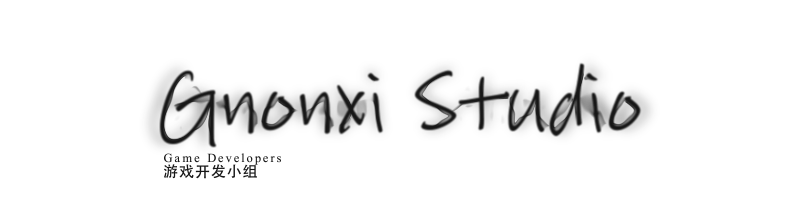
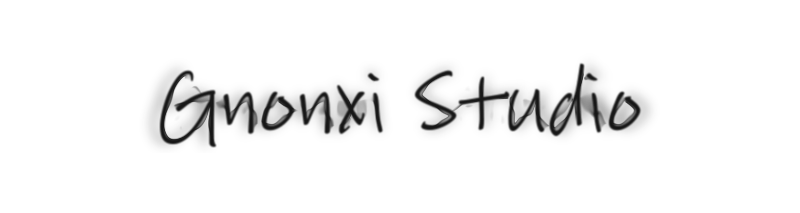
完成个人项目描述页面，完成惜枫醉的个人项目VOSH和PureToolProject

Changed region(s): [[0.1875, 0.7042, 0.375, 0.8451]]

diff --git a/index.html b/index.html
@@ -3,7 +3,7 @@
   <head>
     <!--meta charset='utf-8'-->
     <meta http-equiv="X-UA-Compatible" content="chrome=1">
-    <link href='https://fonts.googleapis.com/css?family=Chivo:900' rel='stylesheet' type='text/css'>
+    <!--link href='https://fonts.googleapis.com/css?family=Chivo:900' rel='stylesheet' type='text/css'-->
     <link rel="stylesheet" type="text/css" href="stylesheets/stylesheet.css" media="screen" />
     <link rel="stylesheet" type="text/css" href="stylesheets/pygment_trac.css" media="screen" />
     <link rel="stylesheet" type="text/css" href="stylesheets/print.css" media="print" />
@@ -19,20 +19,40 @@
       <div class="inner">
 
         <header>
-	  <img src="images/title.png"  alt="gnonxi studio"/>
-	  
+		<img src="images/title_red.png"  alt="gnonxi studio"/>
         </header>
-        <hr>
-		<section id="main_content">
-		<h6>欢迎来到Gnonxi Studio主页</h6>
-		<p><h6>Gnonxi Studio 是一个三人视频游戏开发小组。这里的组员均为业余水平(蛤蛤)，开发游戏是我们的一项爱好。<br/>
-		我们正在进行第一款游戏的策划制作当中，敬请期待。<br/>
-		(似乎大家都比较忙，所以制作周期会非常长,不过一定能产出,质量第一。)<br/>
-		如果您有兴趣或者意见，您可以发送邮件至<a href="mailto:gnonxi@163.com">这里</a></h6> </p>
-        </section>
-
+			<hr/>
+			<section id="main_content">
+				<h2>欢迎来到Gnonxi Studio主页</h2>
+				<p>
+					<h6>Gnonxi Studio 是一个多人开发小组。我们有自己的特长，也会共同的做一些东西，开发游戏和一些小玩意儿是我们的爱好。如果您有兴趣或者意见，您可以发送邮件至<a href="mailto:xifengzui@yeah.net">这里</a>。</h6> 
+				</p>
+			</section>
+			<hr/>
+		<section>
+		<h4>项目日志</h4>
+		<p>
+			<h6>Games<br/>
+			</h6>
+		</p>
+		<p>
+			<h6>Windows & WindowsPhone:<br/>
+			<a href="PureToolsProject.html">Pure Tools Project</a>
+			</h6>
+		</p>
+		<p>
+			<h6>Android:<br/>
+			</h6>
+		</p>
+		<p>
+			<h6>Internet Of Things: <br/>
+			<a href="VOSH.html">Voice Smart Home-VOSH</a> 
+			</h6>
+		</p>
+		
+		</section>
         <footer>
-		  <p>Page powered by <a href="https://github.com/">GitHub</a>  2014.05.08</p>.
+		  <p>Powered by <a href="https://github.com/">GitHub</a> Gnonxi Studio All Rights Reserved.</p>.
         </footer>
 
         

diff --git a/PureToolsProject.html b/PureToolsProject.html
@@ -1,0 +1,58 @@
+<html>
+  <head>
+    <!--meta charset='utf-8'-->
+    <meta http-equiv="X-UA-Compatible" content="chrome=1">
+    <link rel="stylesheet" type="text/css" href="stylesheets/stylesheet.css" media="screen" />
+    <link rel="stylesheet" type="text/css" href="stylesheets/pygment_trac.css" media="screen" />
+    <link rel="stylesheet" type="text/css" href="stylesheets/print.css" media="print" />
+	<link rel="shortcut icon" href="favicon.ico" />
+    <title>Gnonxi Studio - Pure Tools Project</title>
+  </head>
+  <body>
+    <div id="container">
+      <div class="inner">
+	   <header>
+			<p><h1>Pure Tools Project <h1></p>
+			<h6>Pure tools 为windows phone 平台上一系列的实用工具,目的为熟悉windows phone平台。<br/>
+			<a href="mailto:xifengzui@yeah.net">联系我-惜枫醉</a>
+			 </h6>
+        </header>
+		<hr/>
+		<section>
+		<h2> PureLight </h2>
+		<p>
+			<h6>2014/02/23: 中英文支持熟悉及研究。</h6>
+			<h6>2014/03/20: storyboard动画故事版及视觉树的理解及应用。</h6>
+			<h6>2014/03/25: 搞单片机的搞这个好痛苦,完成简单的app</h6>
+			<h6>2014/04/22: 应用商店发布</h6>
+			<h6><a href="http://www.windowsphone.com/zh-cn/store/app/purelight/37d14bbb-2ecb-4aef-a708-385caace731f">应用商店</a> </h6>
+		</p>
+		<hr/>
+		<h2> PureRec </h2>
+		<p>
+			<h6>2014/08/10: wp8.1 研究，坑爹微软，能改那么多QAQ</h6>
+			<h6>2014/08/25: mvvm以及binding研究</h6>
+			<h6>2014/08/31: 8.1录音API研究，不用XNA</h6>
+			<h6>2014/09/17: UI设计</h6>
+			<h6>进行中</p>
+		</p>
+		<h2> PureCam </h2>
+		<p>
+			<h6>未开始<h6>
+		</p>
+		<h2> PureNote </h2>
+		<p>
+			<h6>未开始<h6>
+		</p>
+		<h2> PurePlay </h2>
+		<p>
+			<h6>未开始<h6>
+		</p>
+		</section>
+        <footer>
+		  <p>Powered by <a href="https://github.com/">GitHub</a> Gnonxi Studio All Rights Reserved.</p>.
+        </footer>
+	  </div>
+    </div>
+  </body>
+</html>

diff --git a/VOSH.html b/VOSH.html
@@ -1,0 +1,50 @@
+<html>
+  <head>
+    <!--meta charset='utf-8'-->
+    <meta http-equiv="X-UA-Compatible" content="chrome=1">
+    <link rel="stylesheet" type="text/css" href="stylesheets/stylesheet.css" media="screen" />
+    <link rel="stylesheet" type="text/css" href="stylesheets/pygment_trac.css" media="screen" />
+    <link rel="stylesheet" type="text/css" href="stylesheets/print.css" media="print" />
+	<link rel="shortcut icon" href="favicon.ico" />
+    <title>Gnonxi Studio - Voice Smart Home</title>
+  </head>
+  <body>
+    <div id="container">
+      <div class="inner">
+	   <header>
+			<p><h1>Voice Smart Home <h1></p>
+			<h6> 与众不同的智能家居想法，用声音，控制一切！<br/>
+			<a href="mailto:xifengzui@yeah.net">联系我-惜枫醉</a>
+			 </h6>
+        </header>
+		<hr/>
+		<section>
+		<h2> 节点设备 </h2>
+		<p>
+			<h6>2014/10/18: 完成无线模块测试</h6>
+			<h6>进行中</h6>
+		</p>
+		<h2> 家庭个人服务器 </h2>
+		<p>
+			<h6>2014/09/10: 选型完成</h6>
+			<h6>2014/09/20: 网络通讯测试完成</h6>
+			<h6>2014/09/20: 基础服务器测试完成</h6>
+			<h6>进行中</h6>
+		</p>
+		<h2> 手机远程端 </h2>
+		<p>
+			<h6>进行中</h6>
+		</p>
+		<h2> 项目进度 </h2>
+		<p>
+			<h6>2014/10/1：模块测试完成</h6>
+			<h6>2014/10/15: 项目进度规划1.01，语音识别及其他硬件，选型测试。</h6>
+		</p>
+		</section>
+        <footer>
+		  <p>Powered by <a href="https://github.com/">GitHub</a> Gnonxi Studio All Rights Reserved.</p>.
+        </footer>
+	  </div>
+    </div>
+  </body>
+</html>

diff --git a/404.html b/404.html
@@ -4,16 +4,11 @@
   <head>
     <meta http-equiv="content-type" content="text/html;charset=UTF-8" />
     <title>Page 404</title>
-
     <meta http-equiv="Content-Type" content="text/html; charset=UTF-8" />
     <link rel="icon" type="image/x-icon" href="/images/paw.ico" />
     <link rel="shortcut icon" type="image/x-icon" href="/images/paw.ico" />
-
     <link rel="stylesheet" href="/css/main.css" type="text/css" />
-    <link rel="stylesheet" href="http://fonts.googleapis.com/css?family=Yanone+Kaffeesatz" />
-    <link rel="stylesheet" href="http://fonts.googleapis.com/css?family=Trade+Winds" />
   </head>
-
   <body>
     <div class="content">
       <header>
